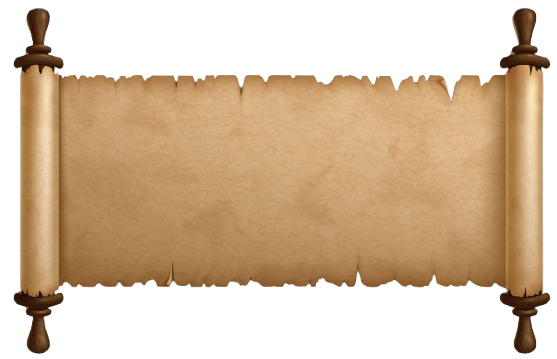
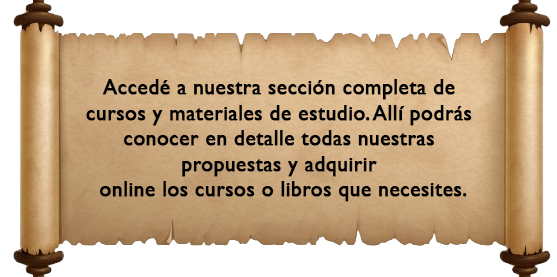
* Se agrega el archivo .js correspondiente a index.html. * Se desarrolla en JS la lógica de cierre automático del menú de navegación (modo responsive) al seleccionar una opción. * Se realiza una modificación estructural en la cita de la sección cursos de index.html

diff --git a/assets/css/style-index.css b/assets/css/style-index.css
@@ -681,28 +681,6 @@ main .novedades .cont-novedades {
     gap: 1rem;
 }
 
-.cursos-cta_p {
-    background-image: url("/assets/Imagenes/pergamino.png");
-    background-size: cover;
-    background-position: center;
-    width: 50vw;
-    aspect-ratio: 16/3.7;
-    color: white;
-    max-width: 100%;
-    padding: 2rem;
-    display: flex;
-    align-items: center;
-    justify-content: center;
-}
-
-.cursos-cta_p p {
-    padding: 4rem;
-    text-align: center;
-    font-size: 1.3rem;
-    color: #000;
-    font-weight: bold;
-}
-
 .btn-ver-cursos {
     display: inline-block;
     background-color: #cc000a;
@@ -1096,19 +1074,6 @@ footer .iconos_redes {
         padding: 1.5rem 0;
     }
 
-    .cursos-cta_p {
-        width: 60vw;
-        aspect-ratio: 16/4.5;
-    }
-
-    .cursos-cta_p p {
-        padding: 4rem 2rem;
-        text-align: center;
-        font-size: 1.1rem;
-        color: #000;
-        font-weight: bold;
-    }
-
     footer .iconos_redes .footer-icono>img {
         width: 11vw;
         height: 11vw;
@@ -1370,17 +1335,14 @@ footer .iconos_redes {
         gap: 1rem;
     }
 
-    .cursos-cta_p {
-        width: 83vw;
-        aspect-ratio: 16/7;
+    .cursos-cta{
+        width: 90%;
+        margin: auto;
+        padding-bottom: 25px;
     }
 
-    .cursos-cta_p p {
-        padding: 0 8vw;
-        text-align: center;
-        font-size: 3vw;
-        color: #000;
-        font-weight: bold;
+    .cursos-cta img{
+        width: 100%;
     }
 
     .nuestras-sedes {

diff --git a/index.html b/index.html
@@ -247,10 +247,7 @@
                 </div>
             </div>
             <div class="cursos-cta">
-                <div class="cursos-cta_p">
-                    <p>Accedé a nuestra sección completa de cursos y materiales de estudio. Allí podrás conocer en
-                        detalle todas nuestras propuestas y adquirir online los cursos o libros que necesites.</p>
-                </div>
+                <img src="/assets/Imagenes/pergamino.png" alt="">
                 <a href="cursos-iciba.html" class="btn-ver-cursos">Ir a Cursos</a>
             </div>
         </section>
@@ -408,6 +405,7 @@
         </div>
     </footer>
 
+    <script src="/assets/js/index-script.js"></script>
 </body>
 
 </html>

diff --git a/assets/js/index-script.js b/assets/js/index-script.js
@@ -1,0 +1,9 @@
+const menuToggle = document.getElementById("check");
+const navlinks = document.querySelectorAll(".navbar a");
+
+navlinks.forEach(link => {
+    link.addEventListener('click', () =>{
+        menuToggle.checked = false;
+    });
+});
+
